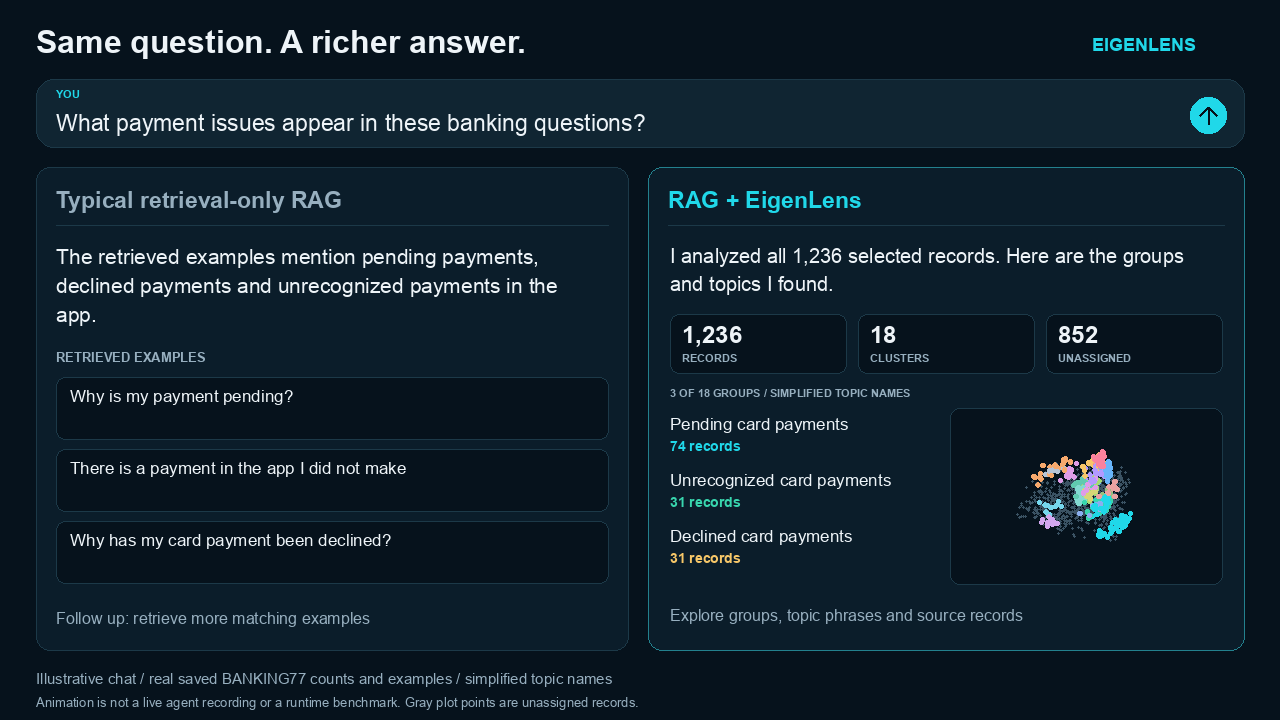
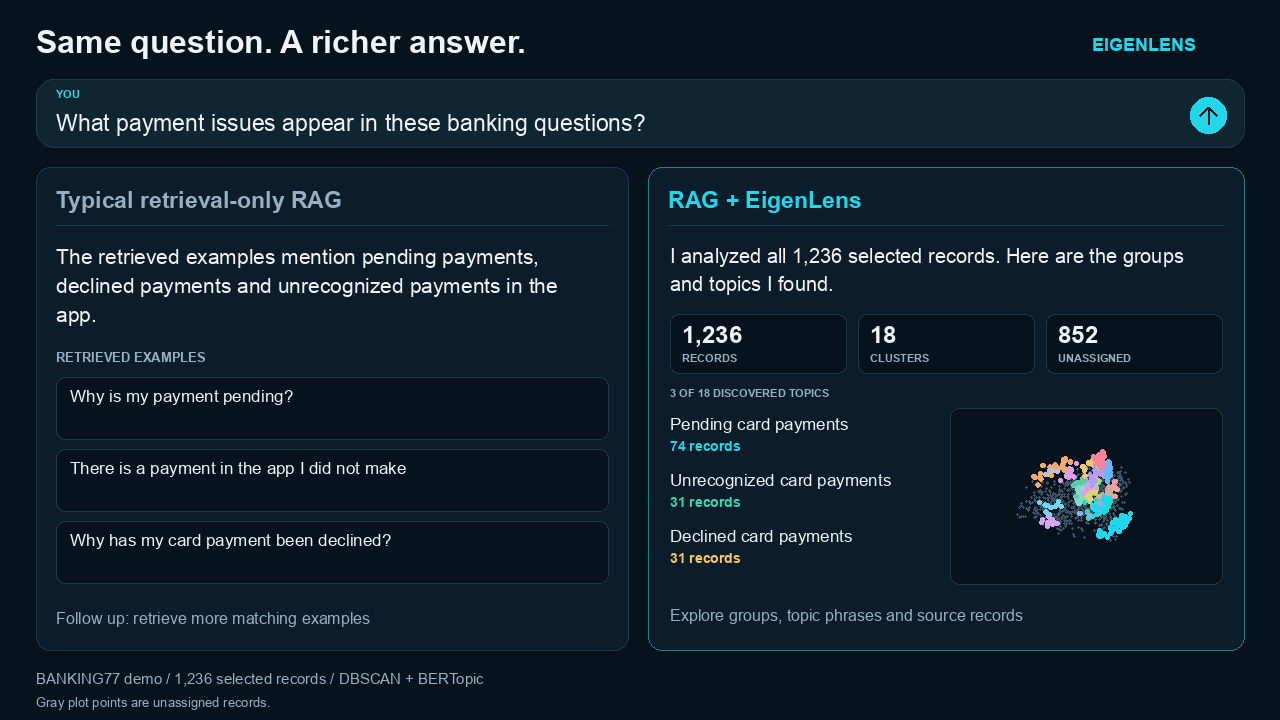
Remove disclaimer from the README comparison and chat animation

Changed region(s): [[0.0312, 0.9167, 0.5, 1.0], [0.5625, 0.5194, 0.7188, 0.55]]

diff --git a/scripts/render_readme_media.py b/scripts/render_readme_media.py
@@ -281,7 +281,6 @@ def comparison_chat(data, output):
             if phase == 2:
                 box(draw, (670, 350, 1222, 420), fill=BG)
                 text(draw, (690, 365), "Finding groups and topic phrases...", 21, CYAN)
-                text(draw, (690, 395), "Illustrated analysis step", 13, MUTED)
         if phase >= 3:
             response = (f'The largest group contains {selected[0]["count"]} records. '
                         'Here is a representative example.' if phase == 6
@@ -296,7 +295,7 @@ def comparison_chat(data, output):
                 text(draw, (x+12, 321), value, 24, WHITE, True)
                 text(draw, (x+12, 352), label, 11, MUTED, True)
             if phase < 6:
-                text(draw, (670, 387), "3 OF 18 GROUPS / SIMPLIFIED TOPIC NAMES", 11, MUTED, True)
+                text(draw, (670, 387), "3 OF 18 DISCOVERED TOPICS", 11, MUTED, True)
                 for i, group in enumerate(selected):
                     y = 414+i*56
                     text(draw, (670, y), display_names.get(group["label"], group["label"]), 17)
@@ -317,8 +316,8 @@ def comparison_chat(data, output):
                 box(draw, (670, 566, 1222, 636), fill=BG, radius=9)
                 text(draw, (684, 575), "SOURCE EXAMPLE", 11, CYAN, True)
                 paragraph(draw, (684, 597), example["text"], 520, size=19)
-        text(draw, (36, 670), "Illustrative chat / real saved BANKING77 counts and examples / simplified topic names", 15, MUTED)
-        text(draw, (36, 695), "Animation is not a live agent recording or a runtime benchmark. Gray plot points are unassigned records.", 13, MUTED)
+        text(draw, (36, 670), f"BANKING77 demo / {count:,} selected records / DBSCAN + BERTopic", 15, MUTED)
+        text(draw, (36, 695), "Gray plot points are unassigned records.", 13, MUTED)
         return im
 
     frames, durations = [], []

diff --git a/README.md b/README.md
@@ -16,8 +16,6 @@ Keep your agent. Keep RAG. Add discovery. EigenLens turns existing embeddings in
 
 [Static comparison](docs/assets/rag-vs-eigenlens.png)
 
-The chat wording and simplified topic names are illustrative. Counts, plot coordinates and quoted records come from the saved BANKING77 analysis; this is not a live agent recording or a speed comparison. RAG can also perform analytics when equipped with tools; EigenLens supplies the clustering and topic-analysis tools alongside retrieval.
-
 <details>
 <summary><strong>Read the comparison</strong></summary>
 
